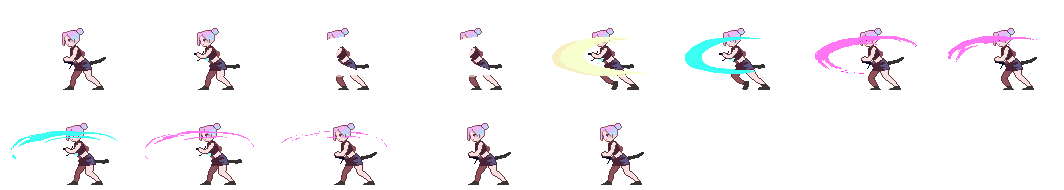
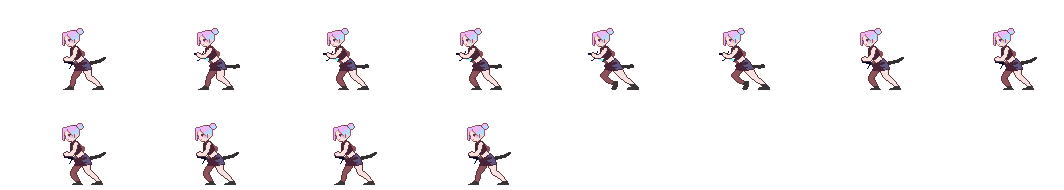
implement chiyo attack animation (opposite direction)

diff --git a/Eudaemon/core/src/edu/cornell/gdiac/game/ActionController.java b/Eudaemon/core/src/edu/cornell/gdiac/game/ActionController.java
@@ -135,6 +135,7 @@ public class ActionController {
         addAnimations(player.getMomoJumpSpriteSheet(), 7, 1, "momoJump");
         addAnimations(player.getChiyoRunSpriteSheet(), 8, 1, "chiyoRun");
         addAnimations(player.getChiyoJumpSpriteSheet(), 8, 1, "chiyoJump");
+        addAnimations(player.getChiyoAttackSpriteSheet(), 8, 2, "chiyoAttack");
         addAnimations(player.getDashEffectSpriteSheet(), 5, 1, "dashEffect");
         addAnimations(player.getImpactEffectSpriteSheet(), 8, 1, "impactEffect");
     }
@@ -590,7 +591,22 @@ public class ActionController {
         // Animations if Player is Chiyo
         else {
             momoRunSound.stop();
-            if (!player.isGrounded()) {
+            if(player.isAttacking()) {
+                chiyoRunSound.stop();
+                soundDictionary.remove(chiyoRunSound);
+                if (currentAnimation != "chiyoAttack") {
+                    currentFrame = 0;
+                }
+                currentAnimation = "chiyoAttack";
+                TextureRegion current = (TextureRegion) (animations.get("chiyoAttack")).getKeyFrame(currentFrame); // Gets the current frame of the animation
+                tickFrameSwitch = 4;
+                maxFrame = 12;
+                player.setTexture(current);
+                player.setOxOffset(20);
+                player.setOyOffset(-25);
+                player.setSxMult(2.3f);
+                player.setSyMult(2.0f);
+            } else if (!player.isGrounded()) {
                 chiyoRunSound.stop();
                 soundDictionary.remove(chiyoRunSound);
                 if (currentAnimation != "chiyoJump") {
@@ -598,7 +614,6 @@ public class ActionController {
                 }
                 currentAnimation = "chiyoJump";
                 TextureRegion current = (TextureRegion) (animations.get("chiyoJump")).getKeyFrame(currentFrame); // Gets the current frame of the animation
-                tickFrameSwitch = 0;
                 tickFrameSwitch = 8;
                 maxFrame = 8;
                 if (currentFrame == 0 && player.getBodyVelocityY() < 0){
@@ -624,7 +639,6 @@ public class ActionController {
                         chiyoRunSound.loop();
                     }
                 }
-
                 TextureRegion current = (TextureRegion) (animations.get("chiyoRun")).getKeyFrame(currentFrame); // Gets the current frame of the animation
                 tickFrameSwitch = 4;
                 maxFrame = 7;

diff --git a/Eudaemon/core/src/edu/cornell/gdiac/game/models/Player.java b/Eudaemon/core/src/edu/cornell/gdiac/game/models/Player.java
@@ -1268,6 +1268,7 @@ public class Player extends CapsuleObstacle {
         this.momoJumpSpriteSheet = new TextureRegion(assets.getEntry( "momo:jump", Texture.class));
         this.chiyoRunSpriteSheet = new TextureRegion(assets.getEntry( "chiyo:run", Texture.class));
         this.chiyoJumpSpriteSheet = new TextureRegion(assets.getEntry( "chiyo:jump", Texture.class));
+        this.chiyoAttackSpriteSheet = new TextureRegion(assets.getEntry( "chiyo:attack", Texture.class));
         this.impactEffectSpriteSheet = new TextureRegion(assets.getEntry( "impactEffect", Texture.class));
         //Sound Effect
         this.playerDamageSound = Gdx.audio.newSound(Gdx.files.internal("audio/temp-player-damage.mp3"));
